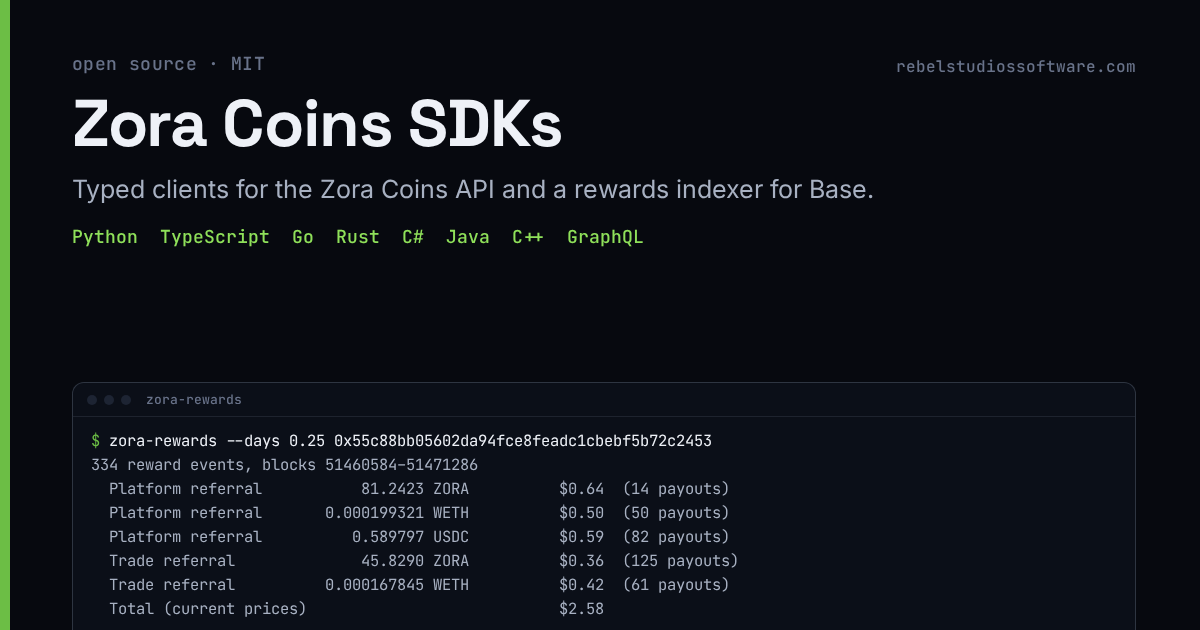
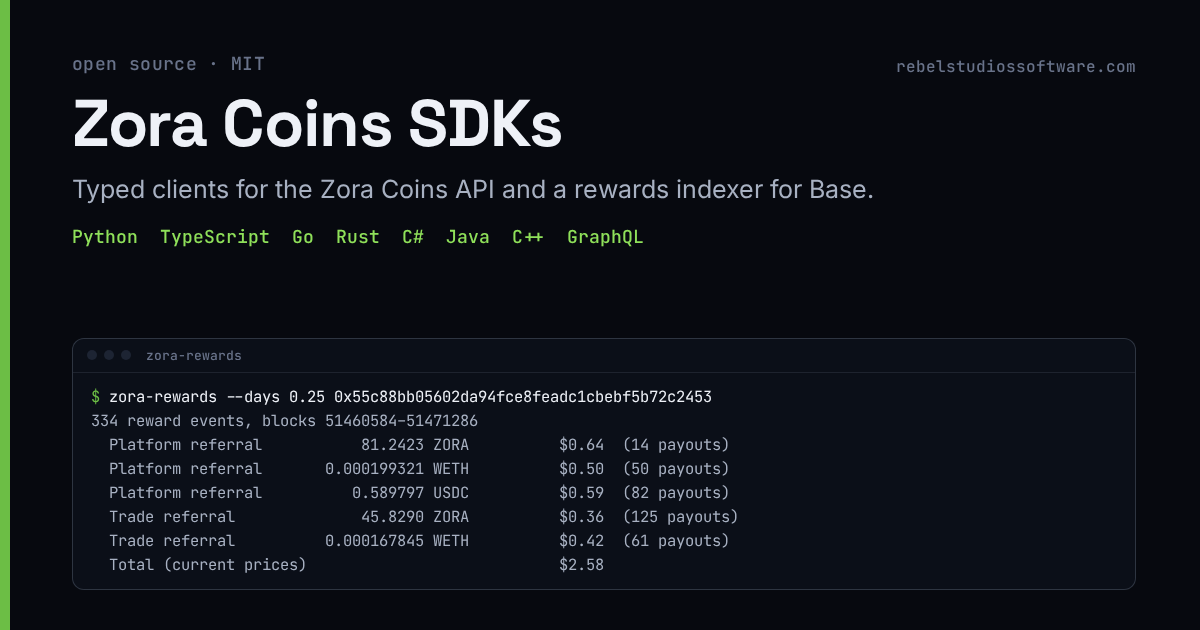
Site QA before marketing: menus, SDK card, security bio, versions, plugin crops
- Plugins was missing from the menu on all 23 Tools pages and 5 blog posts.
- Zora SDK share image: the terminal panel ran off the bottom edge, so it read
  as cut off on the Apps card and in link previews; re-rendered with the panel
  inside the card, and the Apps card fits the whole image.
- Security page: 'I read protocol code for a living' was not true; it is
  independent security research, and the background line now matches the
  resume (a decade of DoD software engineering, DevSecOps, RMF).
- Zora SDK page: v0.1.1 / Python 0.2.1 and the install snippets to match.
- Plugins page: the card crops from plugin-card-crops (full-page shots were
  shrunk into small cards).

Changed region(s): [[0.0617, 0.6032, 0.6167, 0.9952], [0.0617, 0.5429, 0.2158, 0.573]]

diff --git a/zora-coins-sdk.html b/zora-coins-sdk.html
@@ -72,7 +72,7 @@
       <div class="hamburger"><span></span><span></span><span></span></div>
     </div></nav>
     <section class="hero hero--page lp-hero"><div class="container">
-      <p class="lp-meta">Open source · MIT · v0.1.0</p>
+      <p class="lp-meta">Open source · MIT · v0.1.1 (Python 0.2.1)</p>
       <h1>Zora Coins SDKs</h1>
       <p class="hero-sub">Typed clients for the <a href="https://docs.zora.co/coins">Zora Coins API</a> in Python, TypeScript, Go, Rust, C#, Java and C++. All 30 endpoints, one set of documented types, and an indexer for the rewards Zora pays creators and referrers on Base. <strong>Free and MIT licensed.</strong></p>
       <div class="lp-actions"><a class="btn btn-primary" href="https://github.com/pgalyen1987/zora-coins-sdks" target="_blank" rel="noopener">View on GitHub</a><a class="btn btn-secondary" href="https://github.com/pgalyen1987/zora-coins-sdks/blob/main/docs/ENDPOINTS.md" target="_blank" rel="noopener">Every endpoint, every language</a></div>
@@ -86,10 +86,10 @@
         <div class="lp-panel" role="tabpanel" id="tabs-1-p2" aria-labelledby="tabs-1-t2"><p class="lp-panel-label">Go</p><pre><code>go get github.com/pgalyen1987/zora-coins-sdks/go</code></pre></div>
         <div class="lp-panel" role="tabpanel" id="tabs-1-p3" aria-labelledby="tabs-1-t3"><p class="lp-panel-label">Rust</p><pre><code>cargo add zora-coins</code></pre></div>
         <div class="lp-panel" role="tabpanel" id="tabs-1-p4" aria-labelledby="tabs-1-t4"><p class="lp-panel-label">C#</p><pre><code>dotnet add package Zora.Coins</code></pre></div>
-        <div class="lp-panel" role="tabpanel" id="tabs-1-p5" aria-labelledby="tabs-1-t5"><p class="lp-panel-label">Java</p><pre><code>implementation(&quot;io.github.pgalyen1987:zora-coins:0.1.0&quot;)</code></pre></div>
+        <div class="lp-panel" role="tabpanel" id="tabs-1-p5" aria-labelledby="tabs-1-t5"><p class="lp-panel-label">Java</p><pre><code>implementation(&quot;io.github.pgalyen1987:zora-coins:0.1.1&quot;)</code></pre></div>
         <div class="lp-panel" role="tabpanel" id="tabs-1-p6" aria-labelledby="tabs-1-t6"><p class="lp-panel-label">C++</p><pre><code>FetchContent_Declare(zora_coins
   GIT_REPOSITORY https://github.com/pgalyen1987/zora-coins-sdks
-  GIT_TAG v0.1.0
+  GIT_TAG v0.1.1
   SOURCE_SUBDIR cpp)
 FetchContent_MakeAvailable(zora_coins)</code></pre></div>
         <div class="lp-panel" role="tabpanel" id="tabs-1-p7" aria-labelledby="tabs-1-t7"><p class="lp-panel-label">GraphQL</p><pre><code>go run github.com/pgalyen1987/zora-coins-sdks/graphql/cmd/zora-graphql@latest</code></pre></div>

diff --git a/security.html b/security.html
@@ -202,7 +202,7 @@
         <div class="container">
             <div class="sec-thesis" data-reveal>
                 <span class="section-kicker">Position</span>
-                <p>I read protocol code for a living, and I can <em>prove what I found</em>, in runnable tests.</p>
+                <p>I review protocol code as independent security research, and I can <em>prove what I found</em>, in runnable tests.</p>
             </div>
 
             <div class="sec-figures" data-reveal>
@@ -325,7 +325,7 @@
                 <h2 class="section-title">Available for contract and audit work</h2>
             </div>
             <p class="measure">Best fit: DeFi protocol review, Solidity implementation, fork-test and PoC construction, and security work on lending, liquidation and cross-chain surfaces. Comfortable owning a scope end to end and reporting in writing.</p>
-            <p class="measure">There are also ten years of production full-stack and mobile engineering behind the security work; this is a specialisation, not a pivot away from shipping.</p>
+            <p class="measure">Behind the security work is a decade of software engineering for the Department of Defense (C++, C# and Python: embedded control systems, DevSecOps and CI/CD, RMF-certified), plus the web and mobile apps Rebel Studios ships; this is a specialisation, not a pivot away from shipping.</p>
             <div style="display:flex;gap:var(--space-sm);flex-wrap:wrap;margin-top:var(--space-md)">
                 <a href="index.html#contact" class="btn btn-primary">Start a Conversation</a>
                 <a href="mailto:contact@rebelstudiossoftware.com?subject=Contract%20engagement" class="btn btn-secondary">contact@rebelstudiossoftware.com</a>

diff --git a/apps.html b/apps.html
@@ -478,7 +478,7 @@
         <h2 class="section-title">For developers</h2>
         <div class="plug-grid" style="margin-top:1.5rem">
           <div class="plug-card plug-card--featured" style="--cat: 205;">
-            <a class="plug-shot" href="zora-coins-sdk.html" tabindex="-1" aria-hidden="true"><img src="images/og/zora-coins-sdk.png" alt="" width="1200" height="630" loading="lazy"></a>
+            <a class="plug-shot" href="zora-coins-sdk.html" tabindex="-1" aria-hidden="true"><img src="images/og/zora-coins-sdk.png" alt="" width="1200" height="630" loading="lazy" style="object-fit:contain;object-position:center"></a>
             <span class="plug-tag">Open source · MIT</span>
             <h3>Zora Coins SDKs</h3>
             <p>Typed clients for the Zora Coins API in Python, TypeScript, Go, Rust, C#, Java and C++, with an indexer for the rewards Zora pays on Base.</p>

diff --git a/tools/abi-decode.html b/tools/abi-decode.html
@@ -51,6 +51,7 @@
                 <li><a href="../apps.html">Apps</a></li>
                 <li><a href="../security.html">Security</a></li>
                 <li><a href="index.html" class="active">Tools</a></li>
+                <li><a href="../plugins.html">Plugins</a></li>
                 <li><a href="../about.html">About</a></li>
                 <li><a href="../blog.html">Blog</a></li>
                 <li><a href="../index.html#contact" class="nav-contact-btn">Hire Us</a></li>

diff --git a/tools/ats-resume.html b/tools/ats-resume.html
@@ -51,6 +51,7 @@
                 <li><a href="../apps.html">Apps</a></li>
                 <li><a href="../security.html">Security</a></li>
                 <li><a href="index.html" class="active">Tools</a></li>
+                <li><a href="../plugins.html">Plugins</a></li>
                 <li><a href="../about.html">About</a></li>
                 <li><a href="../blog.html">Blog</a></li>
                 <li><a href="../index.html#contact" class="nav-contact-btn">Hire Us</a></li>

diff --git a/tools/bg-remove.html b/tools/bg-remove.html
@@ -51,6 +51,7 @@
                 <li><a href="../apps.html">Apps</a></li>
                 <li><a href="../security.html">Security</a></li>
                 <li><a href="index.html" class="active">Tools</a></li>
+                <li><a href="../plugins.html">Plugins</a></li>
                 <li><a href="../about.html">About</a></li>
                 <li><a href="../blog.html">Blog</a></li>
                 <li><a href="../index.html#contact" class="nav-contact-btn">Hire Us</a></li>

diff --git a/tools/contract-scan.html b/tools/contract-scan.html
@@ -51,6 +51,7 @@
                 <li><a href="../apps.html">Apps</a></li>
                 <li><a href="../security.html">Security</a></li>
                 <li><a href="index.html" class="active">Tools</a></li>
+                <li><a href="../plugins.html">Plugins</a></li>
                 <li><a href="../about.html">About</a></li>
                 <li><a href="../blog.html">Blog</a></li>
                 <li><a href="../index.html#contact" class="nav-contact-btn">Hire Us</a></li>

diff --git a/tools/crypto-tax-csv.html b/tools/crypto-tax-csv.html
@@ -51,6 +51,7 @@
                 <li><a href="../apps.html">Apps</a></li>
                 <li><a href="../security.html">Security</a></li>
                 <li><a href="index.html" class="active">Tools</a></li>
+                <li><a href="../plugins.html">Plugins</a></li>
                 <li><a href="../about.html">About</a></li>
                 <li><a href="../blog.html">Blog</a></li>
                 <li><a href="../index.html#contact" class="nav-contact-btn">Hire Us</a></li>

diff --git a/tools/csv-json.html b/tools/csv-json.html
@@ -51,6 +51,7 @@
                 <li><a href="../apps.html">Apps</a></li>
                 <li><a href="../security.html">Security</a></li>
                 <li><a href="index.html" class="active">Tools</a></li>
+                <li><a href="../plugins.html">Plugins</a></li>
                 <li><a href="../about.html">About</a></li>
                 <li><a href="../blog.html">Blog</a></li>
                 <li><a href="../index.html#contact" class="nav-contact-btn">Hire Us</a></li>

diff --git a/tools/doc-checker.html b/tools/doc-checker.html
@@ -51,6 +51,7 @@
                 <li><a href="../apps.html">Apps</a></li>
                 <li><a href="../security.html">Security</a></li>
                 <li><a href="index.html" class="active">Tools</a></li>
+                <li><a href="../plugins.html">Plugins</a></li>
                 <li><a href="../about.html">About</a></li>
                 <li><a href="../blog.html">Blog</a></li>
                 <li><a href="../index.html#contact" class="nav-contact-btn">Hire Us</a></li>

diff --git a/tools/heic-to-jpg.html b/tools/heic-to-jpg.html
@@ -51,6 +51,7 @@
                 <li><a href="../apps.html">Apps</a></li>
                 <li><a href="../security.html">Security</a></li>
                 <li><a href="index.html" class="active">Tools</a></li>
+                <li><a href="../plugins.html">Plugins</a></li>
                 <li><a href="../about.html">About</a></li>
                 <li><a href="../blog.html">Blog</a></li>
                 <li><a href="../index.html#contact" class="nav-contact-btn">Hire Us</a></li>

diff --git a/tools/image-fit.html b/tools/image-fit.html
@@ -51,6 +51,7 @@
                 <li><a href="../apps.html">Apps</a></li>
                 <li><a href="../security.html">Security</a></li>
                 <li><a href="index.html" class="active">Tools</a></li>
+                <li><a href="../plugins.html">Plugins</a></li>
                 <li><a href="../about.html">About</a></li>
                 <li><a href="../blog.html">Blog</a></li>
                 <li><a href="../index.html#contact" class="nav-contact-btn">Hire Us</a></li>
